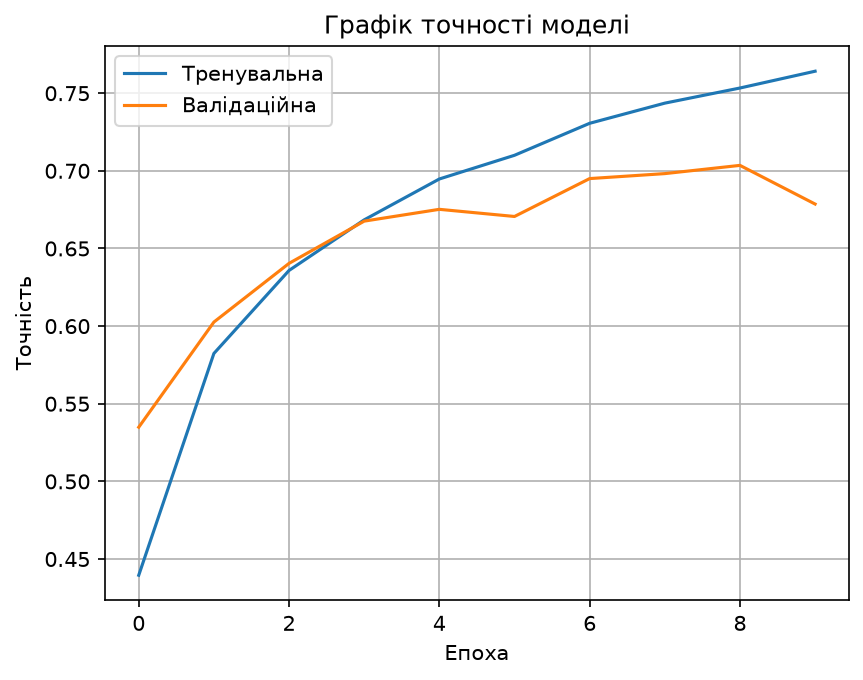
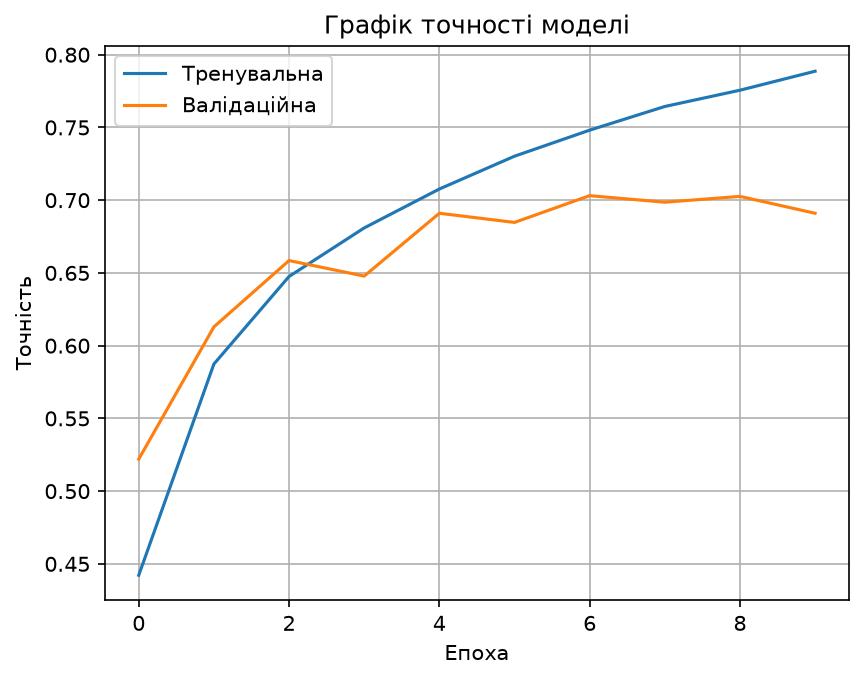
Fix README, add requirements

diff --git a/README.md b/README.md
@@ -1,3 +1,36 @@
+# cifar10-cnn
 
-
-
+A simple convolutional neural network (CNN) that classifies images from the CIFAR-10 dataset, made for learning machine learning with TensorFlow/Keras.
+
+## What is it
+
+A Python script that trains a small CNN on CIFAR-10 (32×32 color images in 10 classes: airplane, automobile, bird, cat, deer, dog, frog, horse, ship, truck). After training, it shows the test accuracy, saves a training graph, and can classify your own image.
+
+Test accuracy: about 71%.
+
+![Training curves](images/training_curves.png)
+
+## How to run
+
+1. Install [Python](https://www.python.org/downloads/) and the libraries:
+   ```
+   pip install -r requirements.txt
+   ```
+2. Run the script:
+   ```
+   python cifar10_cnn.py
+   ```
+   The dataset is downloaded automatically on the first run. Close the graph window to continue.
+3. To classify your own image, put it next to the script and set its name in the `custom_image_path` variable (default: `my_image.jpg`).
+
+## Important note
+
+The model knows only the 10 CIFAR-10 classes, so it will always pick one of them, even if the picture shows something else. Images are resized to 32×32, so photos with one large object in the center work best.
+
+The program is in Ukrainian: the code comments, the console messages, the class names in the predictions and the graph labels are all in Ukrainian.
+
+Training runs on the CPU and takes a few minutes.
+
+## Status
+
+This is a basic learning project. The model is simple and has no data augmentation or regularization, so it slightly overfits after about 8 epochs.
